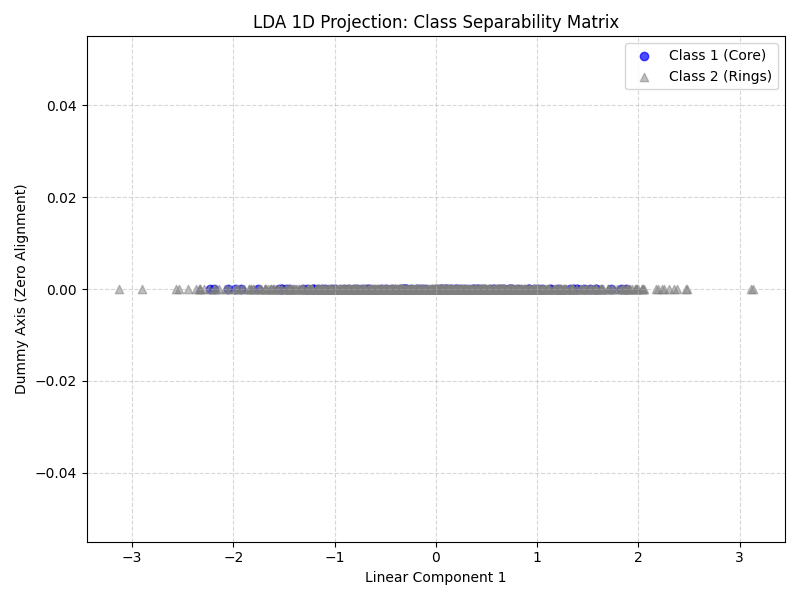
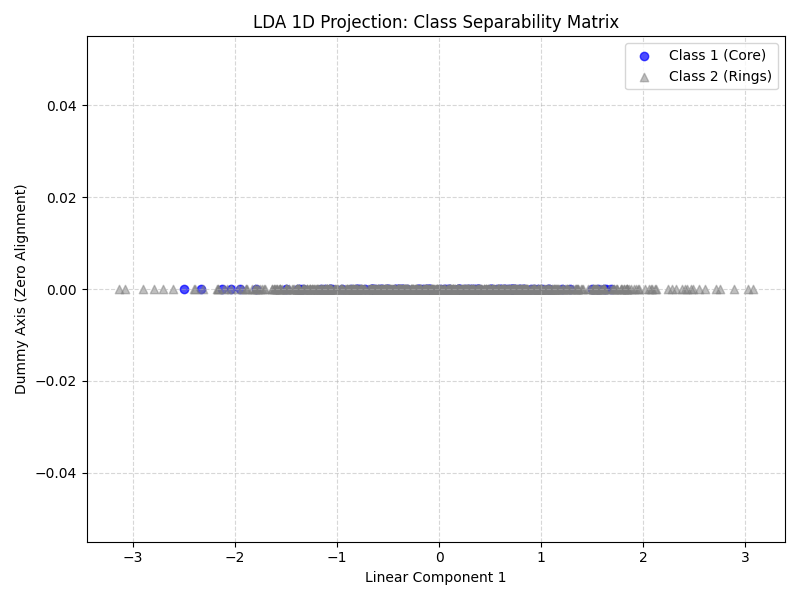
feat(a04): implement full dimensionality pipeline with 3D LDA and 3D PCA/Kernel PCA

diff --git a/assignments/assignment_04_dimensionality_reduction/assignment_04_dimensionality_reduction.py b/assignments/assignment_04_dimensionality_reduction/assignment_04_dimensionality_reduction.py
@@ -10,7 +10,7 @@ import numpy as np
 import pandas as pd
 import matplotlib.pyplot as plt
 from sklearn.discriminant_analysis import LinearDiscriminantAnalysis
-
+from sklearn.decomposition import PCA, KernelPCA
 # ============================================================
 # 1. DATASET GENERATION
 # ============================================================
@@ -171,13 +171,9 @@ plt.tight_layout()
 plt.savefig("result/tridimensional_scatter_plot_spatial_class_distribution.png")
 plt.show()
 
-# ------------------------------------------
-# Passo b) LDA (Linear Discriminant Analysis)
-# ------------------------------------------
-# Instancie o modelo LDA.
-# Ajuste o LDA aos dados e projete-os no subespaço bidimensional.
-# Plote os dados projetados e comente os resultados obtidos (como as classes se separaram).
-
+# ============================================================
+# 3. LINEAR DISCRIMINANT ANALYSIS (LDA)
+# ============================================================
 
 
 # Isolate features (X) and targets (y) using standard Pandas column selection
@@ -214,41 +210,155 @@ plt.savefig("result/lda_onedimensional_projection.png")
 plt.show()
 
 
-# ==========================================
-# 2. GERAÇÃO DO DATASET 2 (Espiral 3D)
-# ==========================================
+# ============================================================
+# 2. DATASET GENERATION 2 (3D Spiral Extrusion)
+# ============================================================
 
-# Parâmetros definidos no enunciado
 a = 0.1
 theta_init = 0.5
 theta_fin = 2.05 * np.pi
 theta_step = 0.2
 
-# Crie os valores de theta usando a função np.arange
-# Para cada valor de theta, calcule r, x e y
-# Crie a estrutura z variando de -1 até 1 com passo 0.2 (11 pontos)
-# Combine (x, y, z) para formar os pontos da espiral
+theta = np.arange(theta_init, theta_fin, theta_step)
+z_space = np.arange(-1, 1.1, 0.2)  
 
-# ------------------------------------------
-# Plotagem da Espiral 3D
-# ------------------------------------------
-# Plote a espiral tridimensional com as especificações do enunciado:
-# - Pontos da mesma espiral 2-dimensional com o mesmo marcador.
-# - Grupos de pontos (x, y fixos) com a mesma cor ao longo de z.
+r = a * theta
+x = r * np.cos(theta)
+y = r * np.sin(theta)
 
-# ------------------------------------------
-# Passo a) PCA Linear
-# ------------------------------------------
-# Instancie o PCA com 2 componentes principais.
-# Ajuste e transforme o conjunto de dados da espiral.
-# Plote o resultado da projeção 2D.
+"""
+STUDY NOTE ON 3D SPIRAL EXTRUSION:
+The 3D spiral dataset is not a continuous helix (spring shape). Instead, it represents 
+a 2D Archimedean spiral extruded along the Z-axis. 
+Every fixed (x, y) coordinate pair forms a vertical linear group spanning across all Z values.
+To fulfill the requirements, points on the same 2D plane share the same marker, 
+and vertical groups (fixed x, y) share the same color.
+"""
 
-# ------------------------------------------
-# Passo b) Kernel PCA
-# ------------------------------------------
-# Instancie o KernelPCA com dimensão m=2.
-# Teste diferentes parâmetros de kernel (como o valor de gamma).
-# Plote os resultados e compare com o PCA linear.
+print("\n" + 30*"---")
+print("DATASET VISUALIZATION - SPIRAL GENERATION")
+print(30*"---")
+print(f"Number of spiral points (theta): {len(theta)}")
+print(f"Number of vertical levels (z): {len(z_space)}")
+
+# ------------------------------------------------------------
+# 3D Spiral Plotting
+# ------------------------------------------------------------
+fig = plt.figure(figsize=(10, 8))
+ax = fig.add_subplot(111, projection='3d')
+colors = plt.cm.viridis(np.linspace(0, 1, len(theta)))
+spiral_point = []
+
+for i in range(len(theta)):
+
+    x_line = np.full_like(z_space, x[i])
+    y_line = np.full_like(z_space, y[i])
+    ax.scatter3D(x_line, y_line, z_space, color=colors[i], marker='o', s=30)    
+    ax.plot3D(x_line, y_line, z_space, color=colors[i], linestyle=':', alpha=0.4)
+
+    for x_val, y_val, z_val in zip(x_line, y_line, z_space):
+        spiral_point.append([x_val, y_val, z_val])
+
+
+X_spiral = np.array(spiral_point)
+
+
+ax.set_xlabel('X Axis')
+ax.set_ylabel('Y Axis')
+ax.set_zlabel('Z Axis')
+ax.set_title('3D Extrusion Plot: Archimedean Spiral Sheet')
+
+ax.view_init(elev=20, azim=60)
+
+plt.tight_layout()
+plt.savefig("result/tridimensional_spiral_extrusion_plot.png")
+plt.show()
+
+# ============================================================
+# 3. LINEAR PRINCIPAL COMPONENT ANALYSIS (PCA)
+# ============================================================
+
+"""
+STUDY NOTE ON LINEAR PCA:
+Linear PCA identifies the orthogonal axes (principal components) that maximize 
+the variance of the data. For this extruded 3D spiral, the first two components 
+are expected to capture the planar structure of the Archimedean spiral, 
+effectively flattening the vertical Z-axis variance.
+"""
+
+pca  = PCA(n_components = 2)
+
+X_pca = pca.fit_transform(X_spiral)
+
+print("\n" + 30*"---")
+print("LINEAR PCA TRANSFORMATION")
+print(30*"---")
+print(f"Original 3D shape: {X_spiral.shape}")
+print(f"Reduced 2D PCA shape: {X_pca.shape}")
+
+# ------------------------------------------------------------
+# Plotting the 2D PCA Projection
+# ------------------------------------------------------------
+plt.figure(figsize= (8,6))
+plt.scatter(X_pca[:,0], X_pca[:,1],color = 'teal', alpha = 0.6, marker = 'o')
+
+plt.title('Linear PCA: 2D Projection of 3D Spiral')
+plt.xlabel('Principal Component 1')
+plt.ylabel('Principal Component 2')
+plt.grid(True, linestyle='--', alpha=0.5)
+
+plt.tight_layout()
+plt.savefig("result/linear_pca_2d_projection.png")
+plt.show()
+
+# ============================================================
+# 4. KERNEL PRINCIPAL COMPONENT ANALYSIS (KERNEL PCA)
+# ============================================================
+
+"""
+STUDY NOTE ON KERNEL PCA:
+Unlike Linear PCA, Kernel PCA maps the non-linear structure of the 3D spiral 
+into a higher-dimensional feature space using the 'Kernel Trick'. 
+By applying a Gaussian (RBF) kernel, the model attempts to unfold the non-linear 
+manifold. The parameter 'gamma' dictates the radius of influence of the kernel:
+- Low gamma values behave similarly to Linear PCA.
+- High gamma values may cause overfitting, scattering the geometric structure.
+- An optimal gamma will successfully linearize or cluster the spiral pattern.
+"""
+
+gamma_values = [0.1, 1, 5, 10]
+
+for g in gamma_values:
+    
+    kpca = KernelPCA(kernel ='rbf', gamma = g, n_components = 2)
+    
+    X_kpca = kpca.fit_transform(X_spiral)
+    
+    print("\n" + 30*"---")
+    print(f"KERNEL PCA TRANSFORMATION - GAMMA: {g}")
+    print(30*"---")
+    print(f"Reduced 2D Kernel PCA shape: {X_kpca.shape}")
+    
+    # --------------------------------------------------------
+    # Plotting the 2D Kernel PCA Projection
+    # --------------------------------------------------------
+    
+    plt.figure(figsize=(8, 6))
+    
+
+    plt.scatter(X_kpca[:,0], X_kpca[:,1],color = 'teal', alpha = 0.6, marker = 'o')
+    
+    
+    plt.title(f'Kernel PCA: 2D Projection (RBF Kernel, Gamma = {g})')
+    plt.xlabel('Kernel Component 1')
+    plt.ylabel('Kernel Component 2')
+    plt.grid(True, linestyle='--', alpha=0.5)
+    
+    plt.tight_layout()
+    
+    plt.savefig(f"result/kernel_pca_gamma_{g}.png")
+    plt.show()
+
 
 
 
